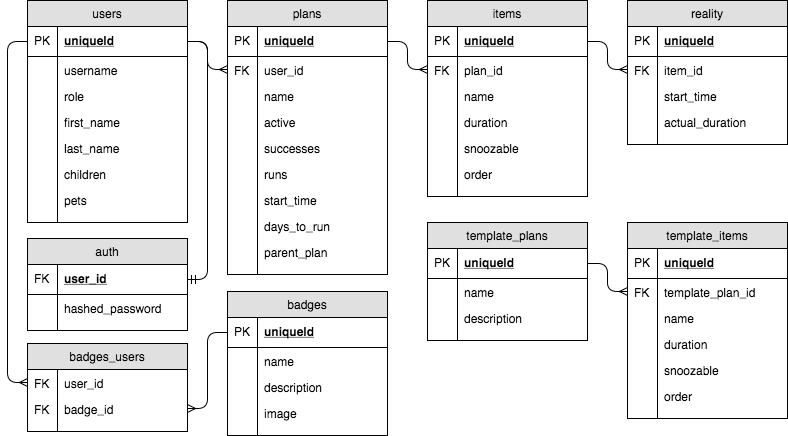
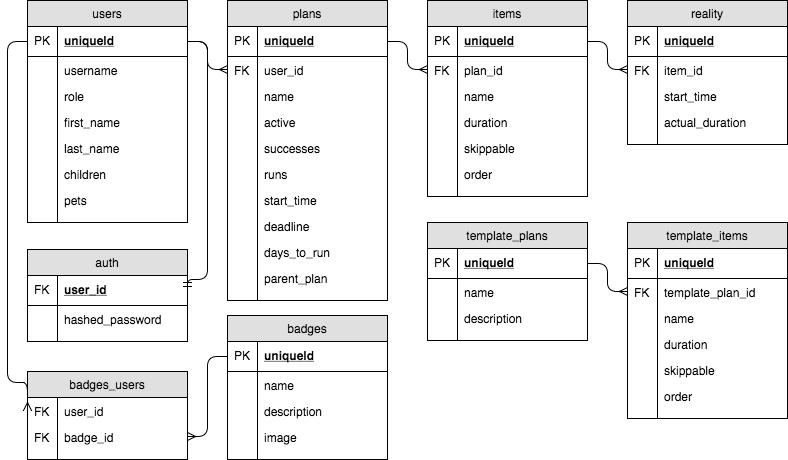
Change 'snoozable' to 'skippable' and add 'deadline' to plans.

diff --git a/db/seeds/03_items.js b/db/seeds/03_items.js
@@ -1,11 +1,11 @@
 exports.seed = function(knex, Promise) {
   return knex('items').insert([
-    { id: 1, plan_id: 1, name: 'Decontaminate', duration: '00:01:00', snoozable: false, order: 1 },
-    { id: 2, plan_id: 1, name: 'Nutrate', duration: '00:07:00', snoozable: true, order: 2 },
-    { id: 3, plan_id: 1, name: 'Suit Up', duration: '00:03:30', snoozable: false, order: 3 },
-    { id: 4, plan_id: 1, name: 'Mynock Check & Removal', duration: '00:10:00', snoozable: false, order: 4 },
-    { id: 5, plan_id: 2, name: 'Enrobe', duration: '00:01:00', snoozable: true, order: 1 },
-    { id: 6, plan_id: 2, name: 'Stretch', duration: '00:04:00', snoozable: false, order: 2 }
+    { id: 1, plan_id: 1, name: 'Decontaminate', duration: '00:01:00', skippable: false, order: 1 },
+    { id: 2, plan_id: 1, name: 'Nutrate', duration: '00:07:00', skippable: true, order: 2 },
+    { id: 3, plan_id: 1, name: 'Suit Up', duration: '00:03:30', skippable: false, order: 3 },
+    { id: 4, plan_id: 1, name: 'Mynock Check & Removal', duration: '00:10:00', skippable: false, order: 4 },
+    { id: 5, plan_id: 2, name: 'Enrobe', duration: '00:01:00', skippable: true, order: 1 },
+    { id: 6, plan_id: 2, name: 'Stretch', duration: '00:04:00', skippable: false, order: 2 }
   ])
   .then(() => {
     return knex.raw(`SELECT setval('items_id_seq', (SELECT MAX(id) FROM items));`)

diff --git a/db/seeds/02_plans.js b/db/seeds/02_plans.js
@@ -1,7 +1,7 @@
 exports.seed = function(knex, Promise) {
   return knex('plans').insert([
-    { id: 1, user_id: 1, name: 'Bespin Wakeup', active: true, successes: 2, runs: 3, start_time: '08:00:00', days_to_run: 'MON,TUE,WED,THU,FRI', parent_plan: null },
-    { id: 2, user_id: 1, name: 'Holocron Practice', active: true, successes: 0, runs: 4, start_time: '09:00:00', days_to_run: 'SUN,SAT', parent_plan: null }
+    { id: 1, user_id: 1, name: 'Bespin Wakeup', active: true, successes: 2, runs: 3, start_time: '08:00:00', deadline: '08:22:00', days_to_run: 'MON,TUE,WED,THU,FRI', parent_plan: null },
+    { id: 2, user_id: 1, name: 'Holocron Practice', active: true, successes: 0, runs: 4, start_time: '09:00:00', deadline: '09:05:00', days_to_run: 'SUN,SAT', parent_plan: null }
   ])
   .then(() => {
     return knex.raw(`SELECT setval('plans_id_seq', (SELECT MAX(id) FROM plans));`)

diff --git a/db/migrations/20171219234537_template_items.js b/db/migrations/20171219234537_template_items.js
@@ -6,7 +6,7 @@ exports.up = function(knex, Promise) {
     table.foreign('template_plan_id').references('template_plans.id').onDelete('CASCADE')
     table.string('name').notNullable().defaultTo('')
     table.time('duration').notNullable().defaultTo('00:05:00')
-    table.boolean('snoozable').notNullable().defaultTo(false)
+    table.boolean('skippable').notNullable().defaultTo(false)
     table.integer('order').defaultTo(null)
     table.timestamps(true, true)
   })

diff --git a/db/migrations/20171219234458_plans.js b/db/migrations/20171219234458_plans.js
@@ -9,6 +9,7 @@ exports.up = function(knex, Promise) {
     table.integer('successes').notNullable().defaultTo(0)
     table.integer('runs').notNullable().defaultTo(0)
     table.time('start_time').notNullable().defaultTo('12:00:00')
+    table.time('deadline').notNullable().defaultTo('00:30:00')
     table.string('days_to_run').notNullable().defaultTo('SUN,MON,TUE,WED,THU,FRI,SAT')
     table.integer('parent_plan').defaultTo(null)
     table.timestamps(true, true)

diff --git a/db/migrations/20171219234504_items.js b/db/migrations/20171219234504_items.js
@@ -6,7 +6,7 @@ exports.up = function(knex, Promise) {
     table.foreign('plan_id').references('plans.id').onDelete('CASCADE')
     table.string('name').notNullable().defaultTo('')
     table.time('duration').notNullable().defaultTo('00:05:00')
-    table.boolean('snoozable').notNullable().defaultTo(false)
+    table.boolean('skippable').notNullable().defaultTo(false)
     table.integer('order').defaultTo(null)
     table.timestamps(true, true)
   })

diff --git a/db/seeds/08_template_items.js b/db/seeds/08_template_items.js
@@ -1,6 +1,6 @@
 exports.seed = function(knex, Promise) {
   return knex('template_items').insert([
-    { id: 1, template_plan_id: 1, name: 'Shower', duration: '00:08:00', snoozable: true, order: 1 }
+    { id: 1, template_plan_id: 1, name: 'Shower', duration: '00:08:00', skippable: true, order: 1 }
   ])
   .then(() => {
     return knex.raw(`SELECT setval('template_items_id_seq', (SELECT MAX(id) FROM template_items));`)
